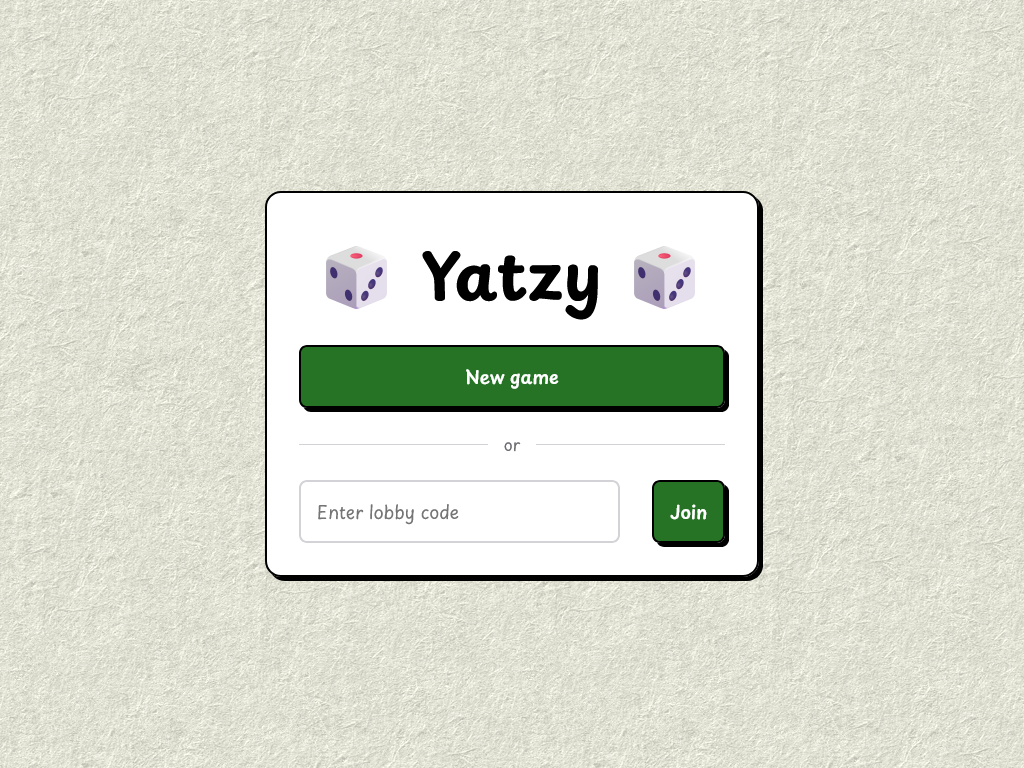
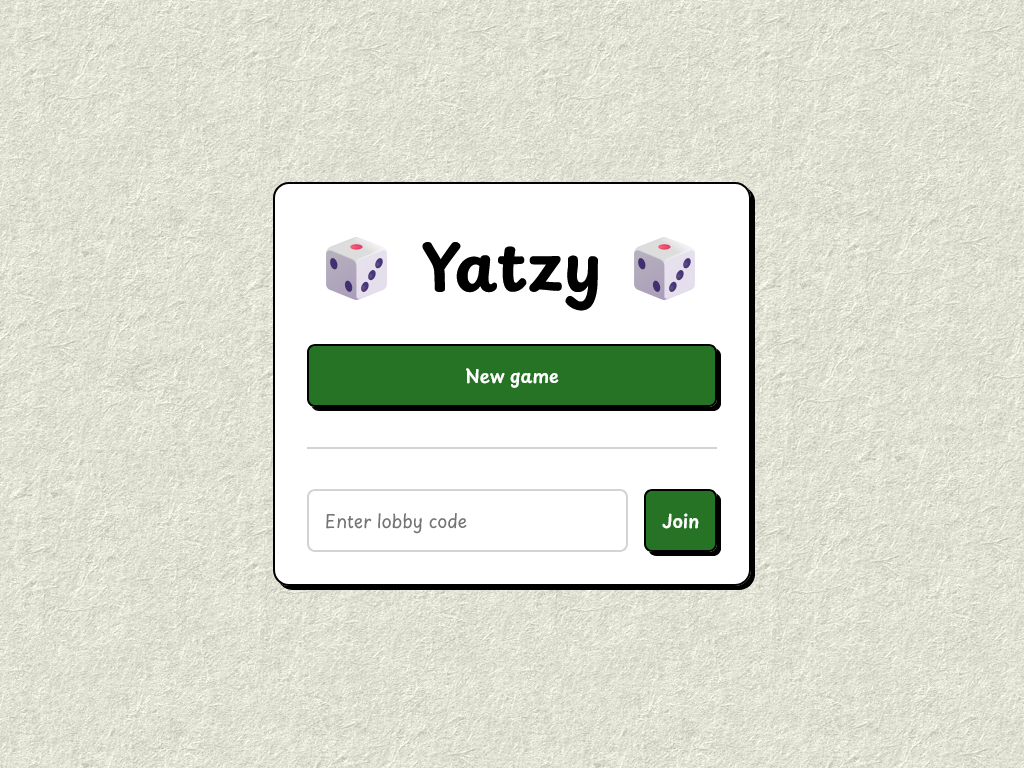
more compact scoreboard. lobby layout changes. update readme.

diff --git a/client/src/components/Scoreboard.module.css b/client/src/components/Scoreboard.module.css
@@ -1,5 +1,6 @@
 .scoreboard {
   z-index: 1;
+  padding: 1.5rem;
 }
 
 .scroll {
@@ -14,7 +15,7 @@
 .scoreboard th,
 .scoreboard td {
   width: 4rem;
-  line-height: 1.5rem;
+  line-height: 1rem;
   padding: 0.5rem;
   border-right: 1px solid var(--light-gray);
   border-bottom: 1px solid var(--light-gray);
@@ -89,7 +90,15 @@
 }
 
 @media (width < 768px) {
-  .scoreboard {
-    padding: 1rem;
+  .scoreboard th,
+  .scoreboard td {
+    line-height: 1.5rem;
   }
 }
+
+/* @media (width > 768px) and (height < 1024px) {
+  .scoreboard th,
+  .scoreboard td {
+    line-height: 1rem;
+  }
+} */

diff --git a/client/src/pages/HomePage.module.css b/client/src/pages/HomePage.module.css
@@ -1,3 +1,8 @@
+.home {
+  display: flex;
+  gap: 2rem;
+}
+
 .home > h1 {
   margin: 1rem auto;
   font-size: 4rem;
@@ -11,21 +16,6 @@
   border-radius: 0.75rem;
   background: var(--pink);
   font-size: 1rem;
-}
-
-.divider {
-  display: flex;
-  align-items: center;
-  gap: 1rem;
-  color: var(--gray);
-  font-size: 1rem;
-}
-
-.divider::before,
-.divider::after {
-  content: "";
-  flex: 1;
-  border-top: 1px solid var(--light-gray);
 }
 
 .home > form {
@@ -44,6 +34,6 @@
 
 @media (width < 768px) {
   .home > h1 {
-    font-size: 3rem;
+    font-size: 2.5rem;
   }
 }

diff --git a/client/src/pages/GamePage.module.css b/client/src/pages/GamePage.module.css
@@ -82,16 +82,16 @@
   gap: 3rem;
   /* Pushes footer to bottom of screen */
   margin: auto 0;
-  padding: 2rem;
+  padding: 1rem;
 }
 
 .chat {
   position: sticky;
-  top: 6rem;
+  top: 5rem;
   flex: none;
   align-self: stretch;
   /* screen height - (header + footer height) - footer border */
-  max-height: calc(100vh - 14rem - 2px);
+  max-height: calc(100vh - 12rem - 2px);
 }
 
 .controls {
@@ -156,7 +156,7 @@
   }
 
   .turn-info * {
-    font-size: 1.1rem;
+    font-size: large;
   }
 
   .turn[data-connected="false"] {

diff --git a/client/src/components/LobbyInvite.module.css b/client/src/components/LobbyInvite.module.css
@@ -1,18 +1,22 @@
 .invite {
   display: flex;
+  flex-direction: column;
   justify-content: space-between;
   align-items: center;
-  gap: 1.5rem;
+  gap: 1rem;
+  flex-wrap: wrap;
 }
 
 .invite > p {
   margin: 0;
   font-size: 2rem;
-  text-align: left;
+  text-align: center;
 }
 
 .invite > button {
-  padding: 0.5rem;
+  padding: 0.5rem 1rem;
   font-size: medium;
   text-wrap: nowrap;
+  color: var(--white);
+  background-color: var(--green);
 }

diff --git a/client/src/pages/HomePage.tsx b/client/src/pages/HomePage.tsx
@@ -40,9 +40,7 @@ function HomePage() {
         {!creating ? <>New game</> : <>Loading...</>}
       </button>
       {error && <p className="error">{error}</p>}
-
-      <div className={styles.divider}>or</div>
-
+      <hr />
       <form onSubmit={join}>
         <input
           placeholder="Enter lobby code"

diff --git a/client/index.html b/client/index.html
@@ -3,6 +3,7 @@
   <head>
     <meta charset="UTF-8" />
     <link rel="icon" type="image/svg+xml" href="/favicon.svg" />
+    <meta property="og:image" content="https://freeyatzy.com/favicon.svg" />
     <meta name="viewport" content="width=device-width, initial-scale=1.0" />
     <title>Yatzy</title>
   </head>

diff --git a/client/src/components/LobbyInvite.tsx b/client/src/components/LobbyInvite.tsx
@@ -20,7 +20,7 @@ function LobbyInvite({ roomId }: Props) {
   return (
     <div className={styles.invite}>
       <p>
-        Lobby: <b>{roomId}</b>
+        <b>Lobby</b>: {roomId}
       </p>
       <button type="button" className="button" onClick={copyLink}>
         {copied ? "Copied!" : "Copy link"}

diff --git a/client/src/pages/LobbyPage.tsx b/client/src/pages/LobbyPage.tsx
@@ -69,7 +69,7 @@ function LobbyPage() {
     return <Navigate to={`/game/${room.id}`} replace />;
 
   return (
-    <main className="card">
+    <main className={`card ${styles.window}`}>
       <LobbyInvite roomId={room.id} />
       <hr />
       <PlayerList room={room} playerId={session.playerId} />

diff --git a/client/src/components/ResultsDialog.tsx b/client/src/components/ResultsDialog.tsx
@@ -4,6 +4,7 @@ import type { PublicPlayer } from "../../../shared/types.ts";
 import styles from "./ResultsDialog.module.css";
 
 const FANFARE_SOUND = new Audio(fanfareSoundUrl);
+FANFARE_SOUND.volume = 0.6;
 
 type Props = {
   players: PublicPlayer[];

diff --git a/client/src/index.css b/client/src/index.css
@@ -77,7 +77,7 @@ table {
 
 hr {
   width: 100%;
-  color: color-mix(in srgb, var(--black) 33%, transparent);
+  border: 1px solid var(--light-gray);
 }
 
 .card,

diff --git a/client/src/pages/LobbyPage.module.css b/client/src/pages/LobbyPage.module.css
@@ -1,3 +1,7 @@
+.window {
+  min-width: min(100dvw - 2rem, 24rem);
+}
+
 .waiting {
   margin: 0;
   color: var(--gray);

diff --git a/README.md b/README.md
@@ -1,14 +1,12 @@
-# 🎲 Yatzy
+# 🎲 [Yatzy](https://freeyatzy.com/)
 
 A multiplayer browser game written in TypeScript. A monorepo using npm workspaces.
 
-**[Play now](https://freeyatzy.com/)**
+Play a game of Yatzy quickly and easily, without logging in. Open a new room with a single click, invite others with a link, and start the game. Select the dice to roll, and mark a score. A per-game chat is included.
 
-Spin up a game of Yatzy quickly and easily, without needing to log in. Open a new room with a single click, invite others via a link, and start the game. Select the dice to roll, and the game automatically calculates and applies your scores. A per-game chat is included.
+## How it works
 
-### Features
-
-The client is a React single page app. Styling is done using plain CSS modules, and the layout is fully responsive. Using WebSockets, clients emit only intent and render the updated state.
+The client is a React single page app. Styling is done using plain CSS modules, and the layout is responsive and mobile-friendly. Using WebSockets, clients emit only intent and render the updated state.
 
 The server (node, express, socket.io) is the only source of truth, including scores and security. Players are authenticated by a secret token issued by the server, and it's validated only during a socket connection handshake. Tokens, IDs and dice rolls use cryptographic randomness.
 
@@ -16,34 +14,34 @@ A Redis database is used as state storage for games, players and timers, as well
 
 ## Tech stack
 
-- **React + Vite + React Router** for front end
+- **React + Vite** front end
 - **Node** back end
-- **Express** for HTTP
+- **Express** for HTTP routes
 - **Socket.io** for real time communication
 - **Redis** as state storage
 
-## Setup
+## Development setup
 
-Requirements: Node (22.22+) and Redis (7+).
+Requirements: Node (22+) and Redis (7+).
 
-Start Redis, using Docker for example:
+- Start Redis, using Docker for example:
 
 ```sh
 docker run -d --name yatzy-redis -p 127.0.0.1:6379:6379 redis:8-alpine
 ```
 
-Run from repository's root:
+- Run from repository's root:
 
 ```sh
 npm install
 npm run dev
 ```
 
-## Flow
+## API and socket events
+
+Room creation and players joining use HTTP, because sockets need a valid auth token from the beginning. This is returned from the POST join route. Everything else uses WebSockets.
 
 ### HTTP routes
-
-Room creation and players joining use HTTP, because sockets need a valid auth token from the beginning. This is returned from the POST join route.
 
 | Route                             | Body       | Response                      |
 | --------------------------------- | ---------- | ----------------------------- |
@@ -52,8 +50,6 @@ Room creation and players joining use HTTP, because sockets need a valid auth to
 | `POST /api/rooms/:roomId/players` | `{ name }` | `{ roomId, playerId, token }` |
 
 ### Socket events
-
-Everything else uses WebSockets.
 
 | Event          | Payload               | Direction        |                                                  |
 | -------------- | --------------------- | ---------------- | ------------------------------------------------ |
